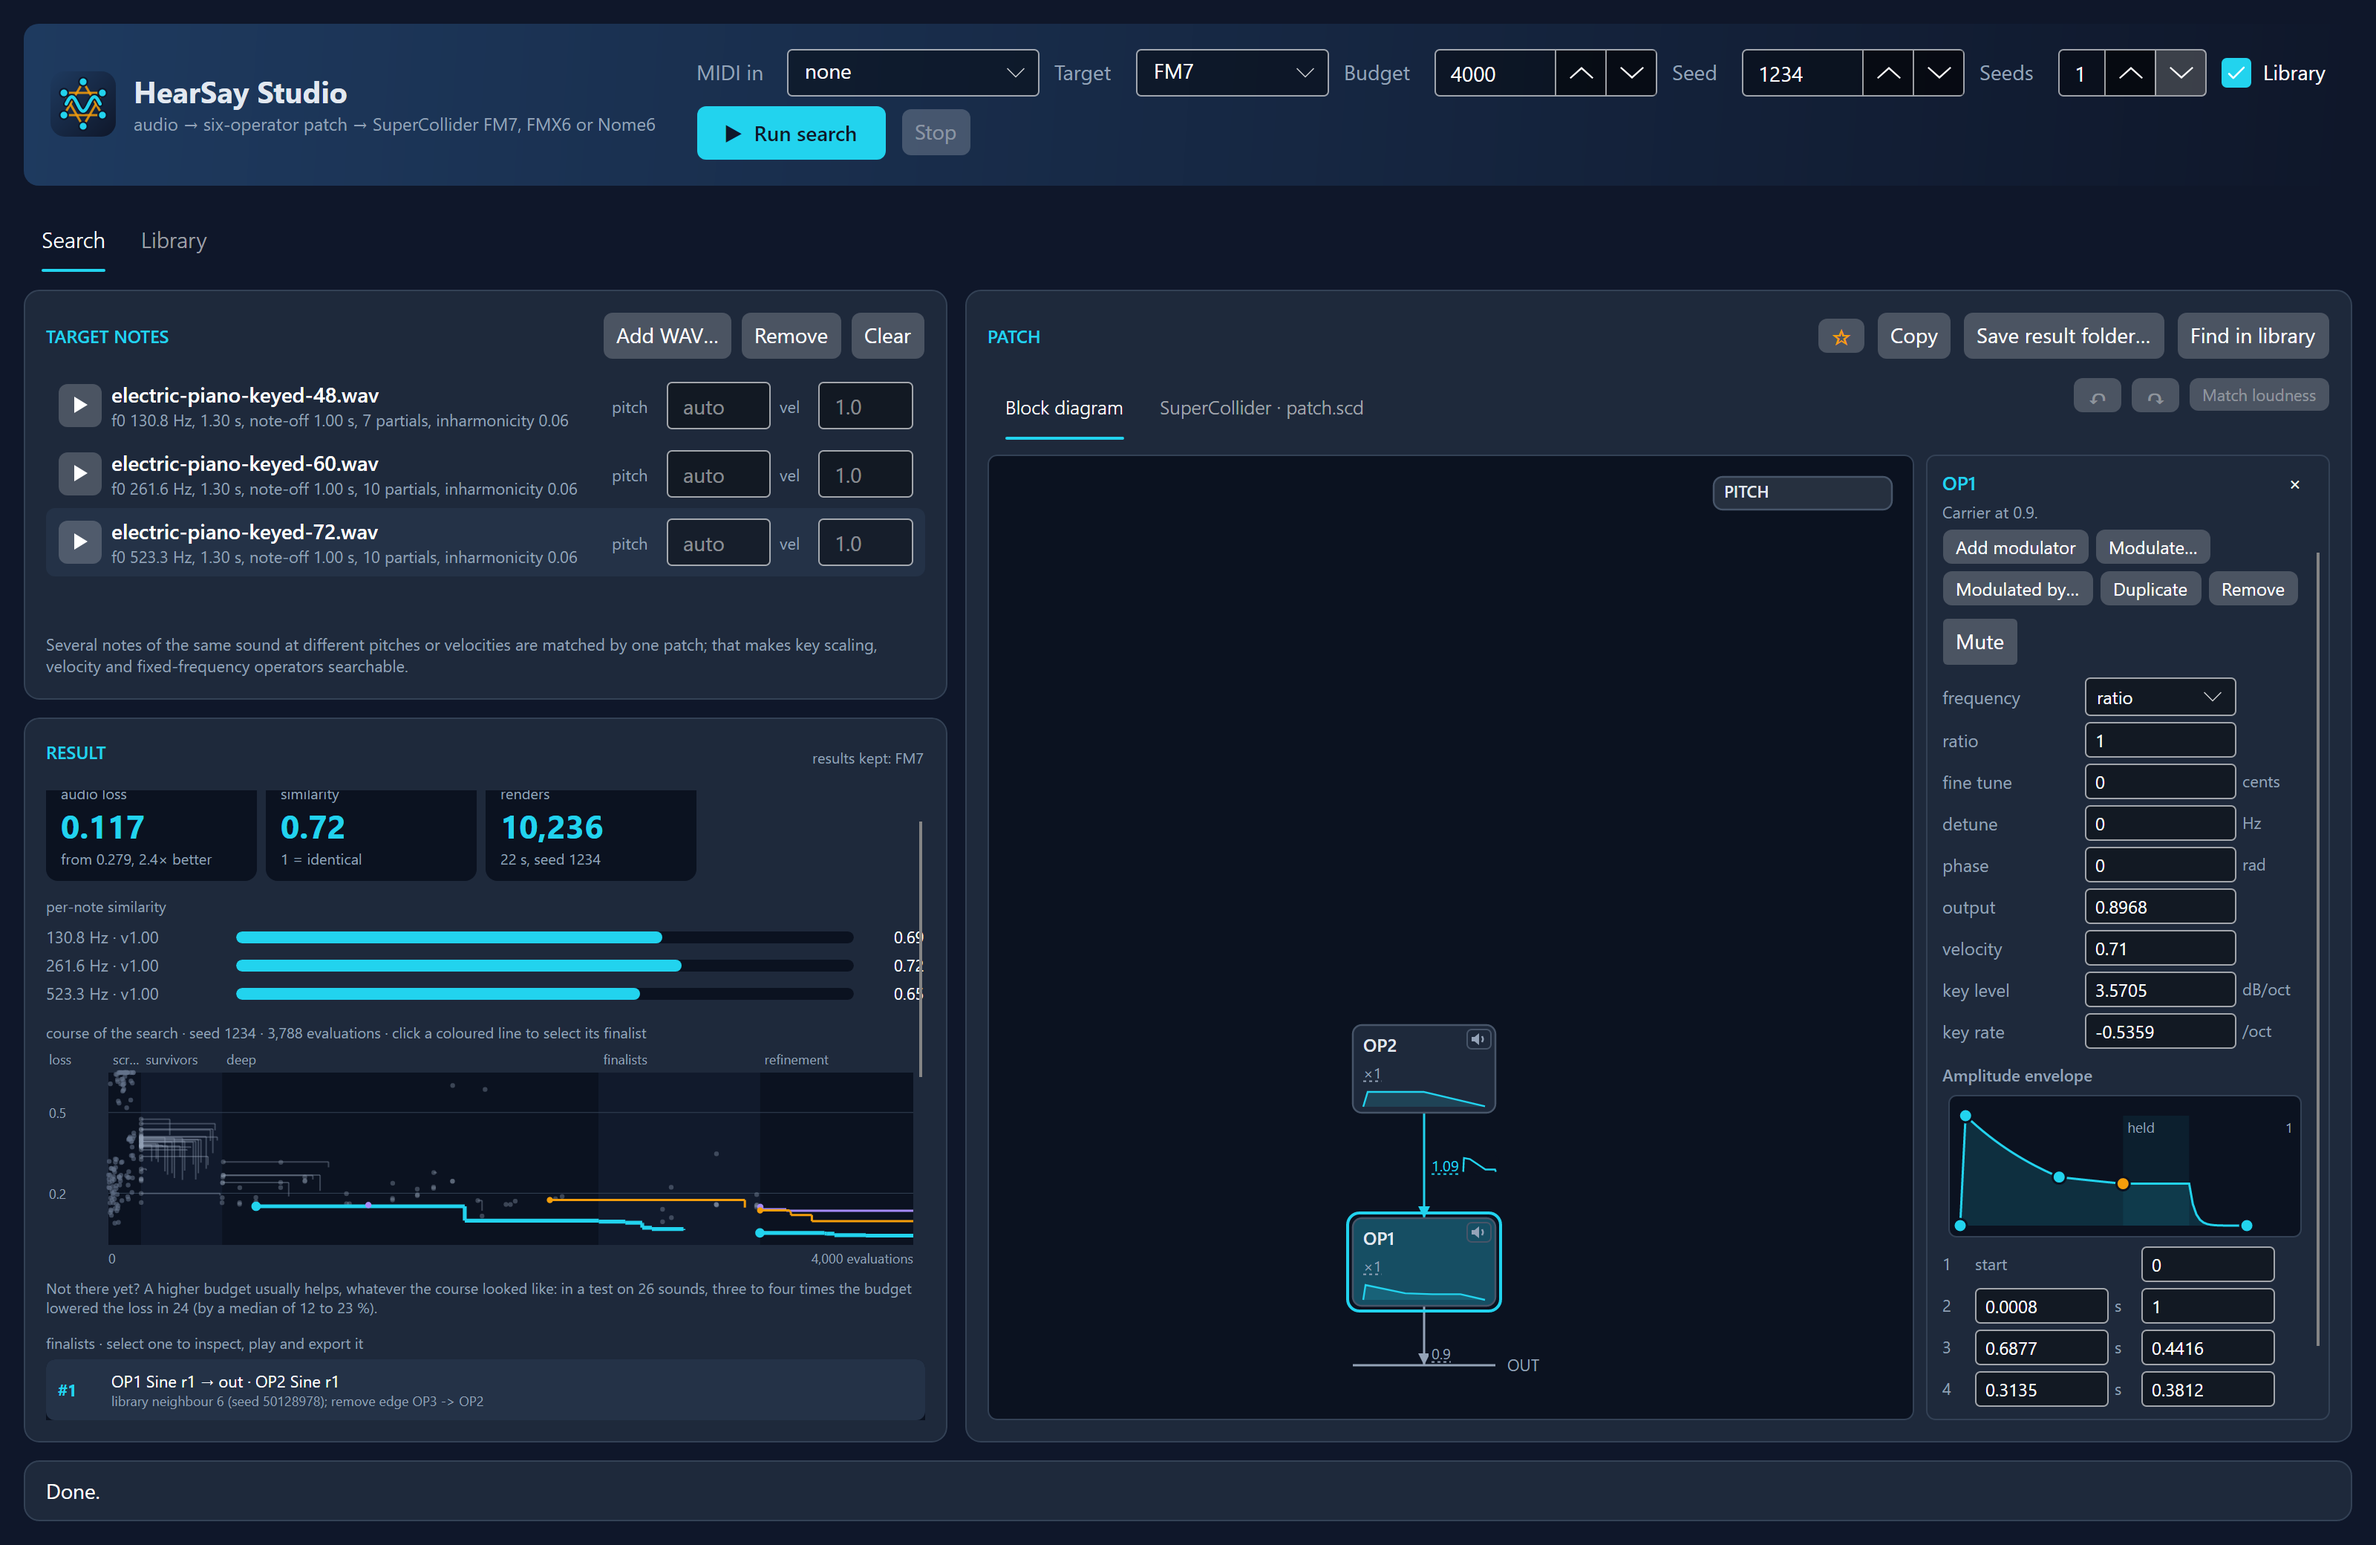
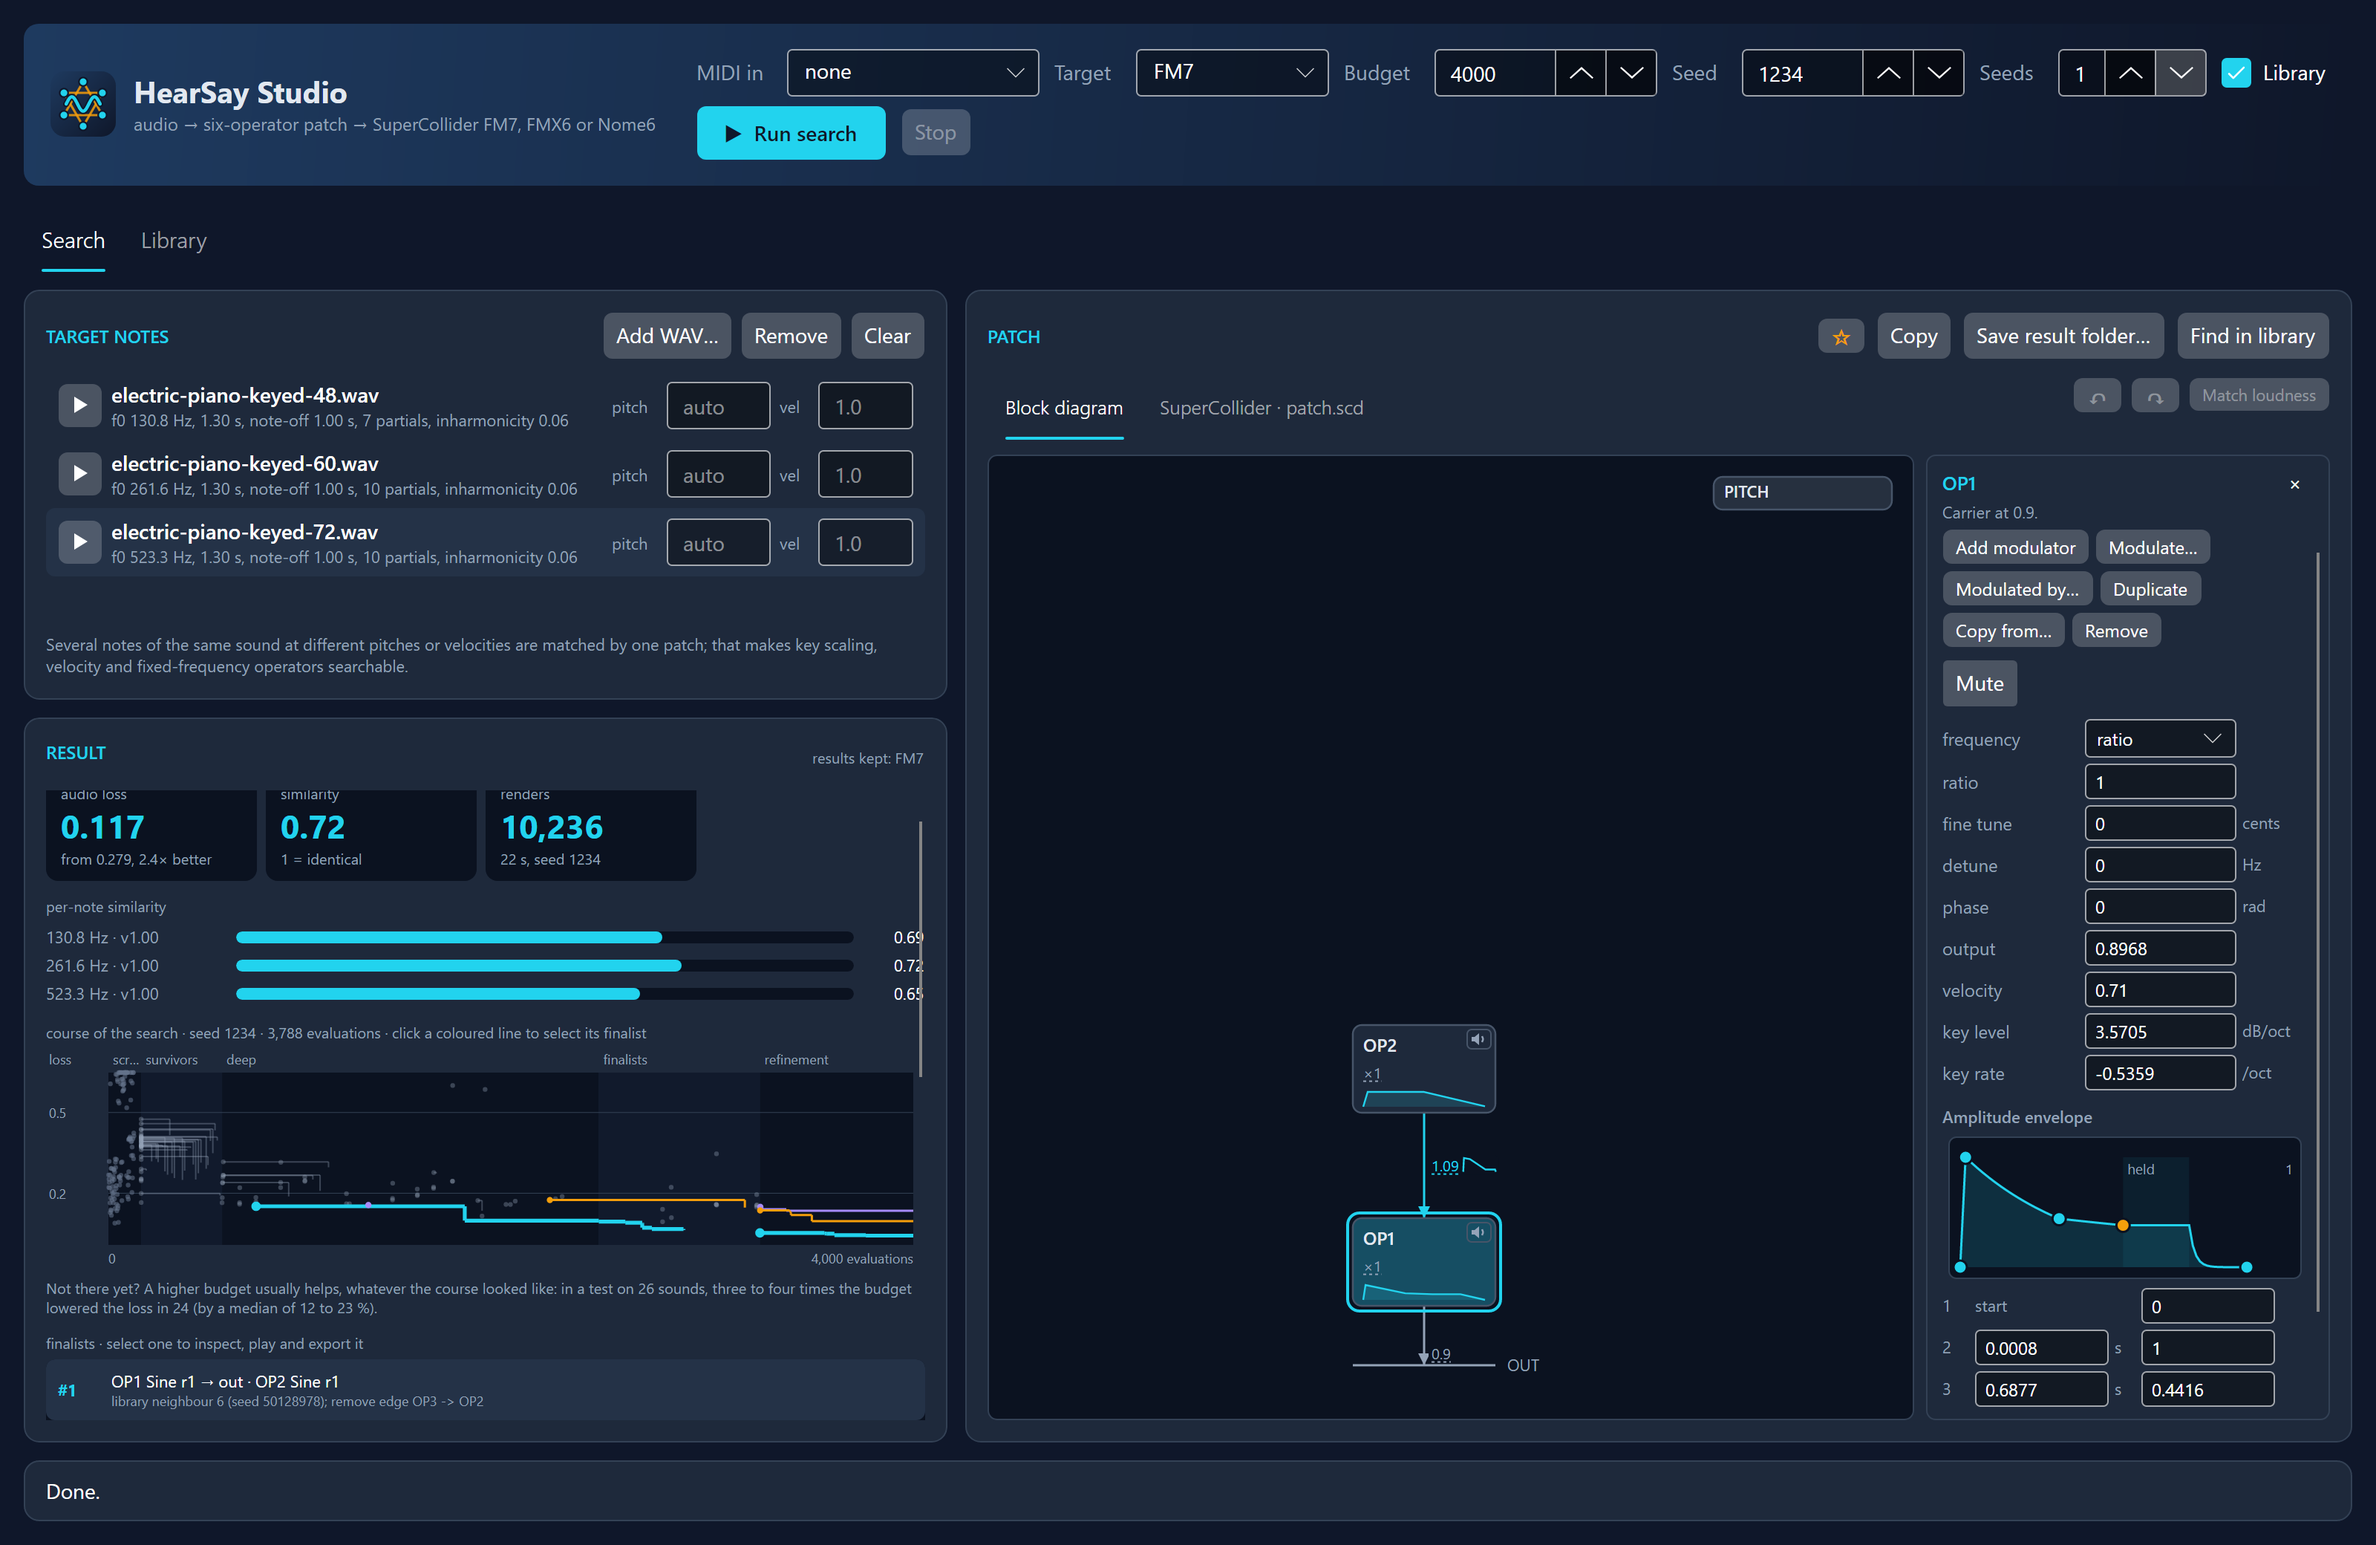
Editor: copy the settings of one operator onto another
PatchEdits.CopyOperator gives an operator everything another one holds
(waveform, frequency, tuning, envelope, filter, velocity and key
scaling, roughness) as one step; the target keeps its output level and
its connections. Refused onto itself, from or onto an operator not in
use, and when the profile cannot play the result. The inspector of an
operator has Copy from..., a menu of the other operators in use with
their waveform, frequency and filter. The editing fuzz test includes it;
the Studio manual and its screenshots show it.

Changed region(s): [[0.8125, 0.6562, 0.9688, 0.875], [0.8125, 0.3438, 0.9688, 0.6562]]

diff --git a/src/HearSay.Studio/PatchInspector.axaml.cs b/src/HearSay.Studio/PatchInspector.axaml.cs
@@ -310,6 +310,7 @@ public sealed partial class PatchInspector : UserControl
             ConnectButton("ModulateTo", "Modulate…", $"Let OP{op + 1} modulate another operator, or itself", op, outgoing: true),
             ConnectButton("ModulatedBy", "Modulated by…", $"Let another operator, or OP{op + 1} itself, modulate OP{op + 1}", op, outgoing: false),
             Action("Duplicate", "Duplicate", $"A copy of OP{op + 1} in the first free operator, with all its connections", () => ApplyAndSelectAdded(PatchEdits.DuplicateOperator(op))),
+            CopyFromButton(op),
             Action("Remove", "Remove", $"Remove OP{op + 1} and its connections", () => Deselect(_editor!.Apply(PatchEdits.RemoveOperator(op)))));
 
         // Listening without it: no edit, so also on the original side.
@@ -504,6 +505,51 @@ public sealed partial class PatchInspector : UserControl
 
         // A vowel needs a source with many equally strong harmonics for its formants to shape.
         Buttons(Action("VoiceSource", "Voice source", "Make this operator a vowel source: a narrow pulse (1 %) with 64 harmonics", () => _editor!.Apply(PatchEdits.SetVoiceSource(op))));
+    }
+
+    /// <summary>
+    /// A button whose menu copies the settings of another operator in use onto the selected one (its waveform,
+    /// frequency, envelope, filter and the rest; its output level and connections stay). The menu is built on each click,
+    /// from the patch as it is then.
+    /// </summary>
+    private Button CopyFromButton(int op)
+    {
+        var button = new Button { Name = "CopyFrom", Content = "Copy from…" };
+        ToolTip.SetTip(button, $"Give OP{op + 1} the settings of another operator: waveform, frequency, envelope, filter and the rest. Its output level and connections stay.");
+        button.Click += (_, _) =>
+        {
+            if (_editor?.DisplayedPatch is not { } patch)
+            {
+                return;
+            }
+
+            var menu = new MenuFlyout { Placement = PlacementMode.BottomEdgeAlignedLeft };
+            for (int i = 0; i < patch.OperatorCount; i++)
+            {
+                if (i == op || !patch.Operators[i].Enabled)
+                {
+                    continue;
+                }
+
+                int source = i;
+                OperatorPatch other = patch.Operators[i];
+                string frequency = other.Frequency.Mode == OperatorFrequencyMode.Fixed
+                    ? string.Create(CultureInfo.InvariantCulture, $"{other.Frequency.FixedFrequencyHz:0.##} Hz")
+                    : string.Create(CultureInfo.InvariantCulture, $"×{other.Frequency.Ratio:0.###}");
+                string filter = other.Filter is { } f ? ", " + PatchDescription.FilterLabel(f) : string.Empty;
+                var item = new MenuItem { Name = "CopyFrom:" + (i + 1).ToString(CultureInfo.InvariantCulture), Header = $"OP{i + 1} ({PatchDescription.WaveformName(other.Waveform)} {frequency}{filter})" };
+                item.Click += (_, _) => _editor.Apply(PatchEdits.CopyOperator(source, op));
+                menu.Items.Add(item);
+            }
+
+            if (menu.Items.Count == 0)
+            {
+                menu.Items.Add(new MenuItem { Header = "No other operator is in use.", IsEnabled = false });
+            }
+
+            menu.ShowAt(button);
+        };
+        return button;
     }
 
     /// <summary>

diff --git a/tests/HearSay.IntegrationTests/PatchEditsTests.cs b/tests/HearSay.IntegrationTests/PatchEditsTests.cs
@@ -163,6 +163,44 @@ public sealed class PatchEditsTests
     }
 
     [Fact]
+    public void CopyOperator_CopiesTheSettings_KeepsOutputAndConnections()
+    {
+        // OP1 a plain sine heard at 1, OP2 a filtered saw modulating it, OP3 a sine heard at 0.3.
+        OperatorPatch saw = OperatorPatch.Sine(OperatorFrequency.AtRatio(3), OperatorEnvelope.Adsr(0.05, 0.6, 0.2, 0.4))
+            .WithWaveform(OperatorWaveform.Saw) with { HarmonicLimit = 32, Filter = OperatorFilter.LowPass(4), VelocitySensitivity = 0.6, FineTuneCents = 7 };
+        OperatorMatrixPatch patch = TwoOperators()
+            .WithOperator(1, saw)
+            .WithOperator(2, OperatorPatch.Sine(OperatorFrequency.AtRatio(5)))
+            .WithOutputLevel(2, 0.3);
+
+        OperatorMatrixPatch edited = Done(patch, Fmx6, PatchEdits.CopyOperator(1, 2));
+
+        // OP3 sounds like OP2 now, but keeps its own output level and its place in the routing.
+        Assert.Equal(saw, edited.Operators[2]);
+        Assert.Equal(0.3, edited.OutputLevels[2]);
+        Assert.Equal(patch.ModulationMatrix.Edges, edited.ModulationMatrix.Edges);
+        Assert.Equal(patch.Operators[1], edited.Operators[1]);
+
+        // Onto a modulator: the connections stay too.
+        OperatorMatrixPatch modulator = Done(patch, Fmx6, PatchEdits.CopyOperator(2, 1));
+        Assert.Equal(patch.Operators[2], modulator.Operators[1]);
+        Assert.Equal(new ModulationEdge(1, 0, true, 2.0), modulator.ModulationMatrix.Find(1, 0));
+    }
+
+    [Fact]
+    public void CopyOperator_IsRefused_FromItself_FromAFreeOperator_OntoAFreeOperator_OrWhatTheProfileCannotPlay()
+    {
+        OperatorMatrixPatch patch = TwoOperators();
+        Assert.Contains("itself", Refused(patch, Fm7, PatchEdits.CopyOperator(1, 1)), StringComparison.Ordinal);
+        Assert.Contains("OP4 is not in use", Refused(patch, Fm7, PatchEdits.CopyOperator(3, 0)), StringComparison.Ordinal);
+        Assert.Contains("OP5 is not in use", Refused(patch, Fm7, PatchEdits.CopyOperator(0, 4)), StringComparison.Ordinal);
+
+        // A saw cannot go onto an FM7 operator: the editor's validation refuses it and the patch stays.
+        OperatorMatrixPatch withSaw = patch.WithOperator(1, patch.Operators[1].WithWaveform(OperatorWaveform.Saw));
+        Assert.False(string.IsNullOrWhiteSpace(Refused(withSaw, Fm7, PatchEdits.CopyOperator(1, 0))));
+    }
+
+    [Fact]
     public void DuplicateOperator_IgnoresConnectionsWithFreeOperators()
     {
         // OP3 was removed by a search step that kept its connection to OP1, and OP1 modulates the free OP4: the copy of
@@ -574,7 +612,7 @@ public sealed class PatchEditsTests
         }
 
         OperatorWaveform[] waveforms = Enum.GetValues<OperatorWaveform>();
-        switch (random.Next(14))
+        switch (random.Next(15))
         {
             case 0:
             {
@@ -660,6 +698,13 @@ public sealed class PatchEditsTests
             {
                 int op = Op();
                 return ($"DuplicateOperator({op})", PatchEdits.DuplicateOperator(op));
+            }
+
+            case 13:
+            {
+                int from = Op();
+                int to = Op();
+                return ($"CopyOperator({from}, {to})", PatchEdits.CopyOperator(from, to));
             }
 
             default:

diff --git a/src/HearSay/Editing/PatchEdits.cs b/src/HearSay/Editing/PatchEdits.cs
@@ -115,6 +115,29 @@ public static class PatchEdits
     };
 
     /// <summary>
+    /// Copies the settings of one operator onto another: waveform, frequency, tuning, envelope, filter, velocity and key
+    /// scaling, roughness, everything the operator itself holds. The target keeps its output level and its connections,
+    /// so its place in the routing stays. Refused onto itself, from or onto an operator that is not in use, and when the
+    /// profile cannot play the result (the editor checks it).
+    /// </summary>
+    /// <param name="from">The operator whose settings are copied.</param>
+    /// <param name="to">The operator that gets them.</param>
+    public static PatchEdit CopyOperator(int from, int to) => (patch, _) =>
+    {
+        if ((MissingOrUnused(patch, from) ?? MissingOrUnused(patch, to)) is { } missing)
+        {
+            return EditOutcome.Refused(patch, missing);
+        }
+
+        if (from == to)
+        {
+            return EditOutcome.Refused(patch, $"OP{from + 1} cannot be copied onto itself.");
+        }
+
+        return EditOutcome.Done(patch.WithOperator(to, patch.Operators[from]));
+    };
+
+    /// <summary>
     /// Duplicates an operator: the first disabled slot becomes a copy of it, with its output level and all its
     /// connections (the operators that modulate it modulate the copy, the copy modulates what it modulates, and its
     /// feedback becomes the copy's own). Refused when no slot is free, or when an operator would receive more modulation

diff --git a/docs/studio-manual.md b/docs/studio-manual.md
@@ -260,9 +260,9 @@ keeps its loudness when you mute, so the remaining operators do not get louder.
 
 *The inspector of OP1: the buttons that change the structure, its numbers, and its amplitude envelope.*
 
-- **An operator** has *Add modulator*, *Modulate…*, *Modulated by…*, *Duplicate* and *Remove*, menus for the waveform
-  and the frequency mode (ratio or fixed Hz), its numbers, a filter section (type and *Sweep*) and, on Nome6,
-  *Roughness from the shared noise*.
+- **An operator** has *Add modulator*, *Modulate…*, *Modulated by…*, *Duplicate*, *Copy from…* and *Remove*, menus
+  for the waveform and the frequency mode (ratio or fixed Hz), its numbers, a filter section (type and *Sweep*) and,
+  on Nome6, *Roughness from the shared noise*.
   - *Add modulator* takes the first free operator: a sine at ratio 1 with a short decaying envelope, modulating the
     selected operator by 1 rad and not heard on its own.
   - *Modulate…* lets the selected operator modulate another one, or itself (feedback); *Modulated by…* lets another
@@ -273,6 +273,10 @@ keeps its loudness when you mute, so the remaining operators do not get louder.
     connections: what modulates the original modulates the copy, the copy modulates what the original modulates, and
     the original's feedback becomes the copy's own. The sound changes until you change the copy (detune it, give it
     another ratio). The copy is selected; one undo removes it.
+  - *Copy from…* gives the operator the settings of another one in use, chosen from a menu that names each with its
+    waveform, frequency and filter: waveform, frequency, tuning, envelope, filter, velocity and key scaling,
+    roughness. Its output level and its connections stay, so its place in the routing does not change. One undo
+    brings the operator back.
   - *Remove* switches the operator off with its connections; the last operator that is heard cannot be removed.
 - **A connection** has *Disconnect*, its amount and *Amount follows an envelope*.
 - **NOISE** has its colour and cutoff, and says which operators use the noise (*Used by OP2 (plays it), OP1 (roughness
